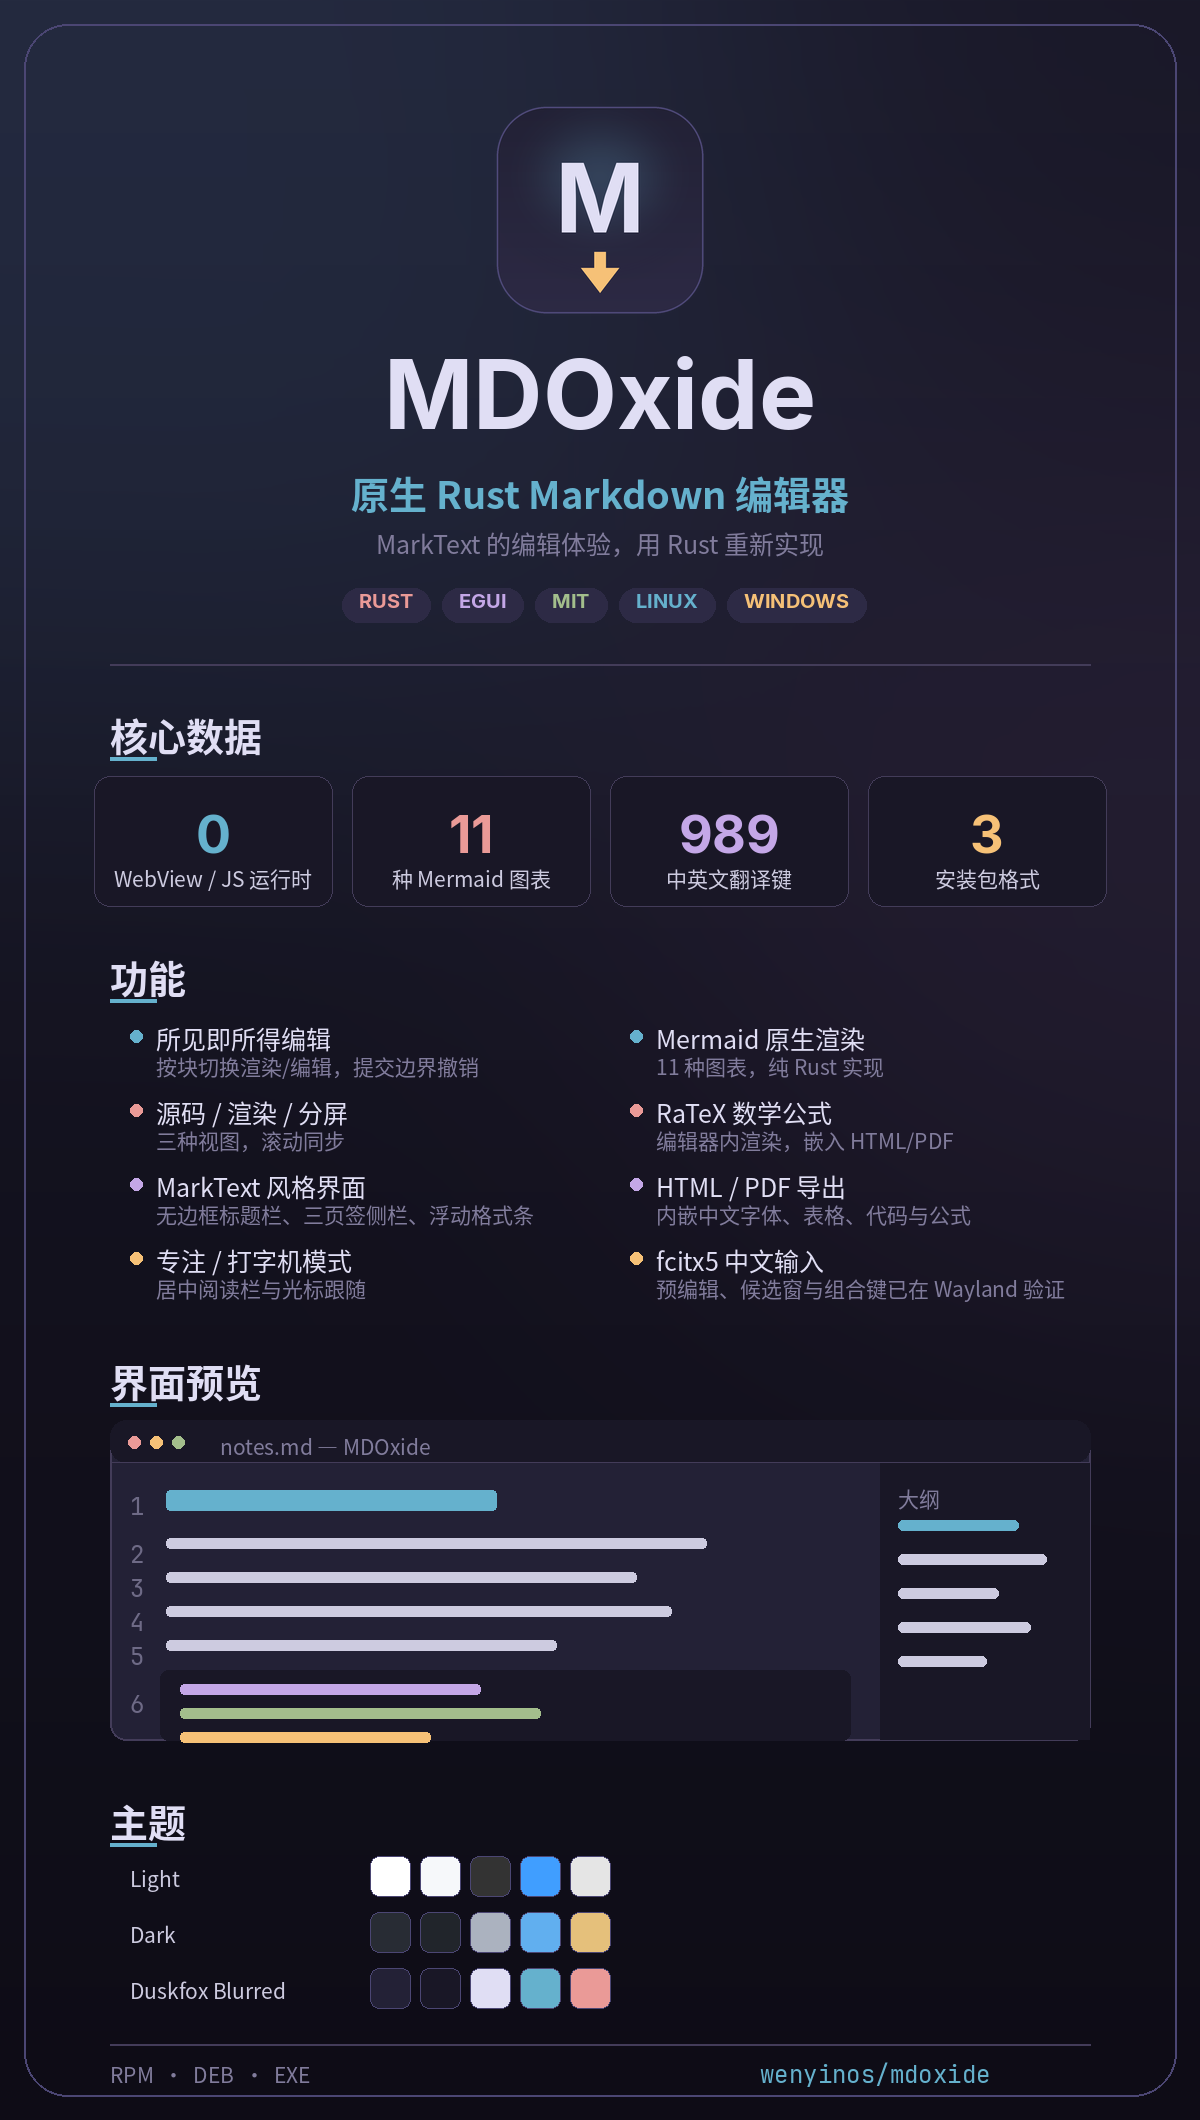
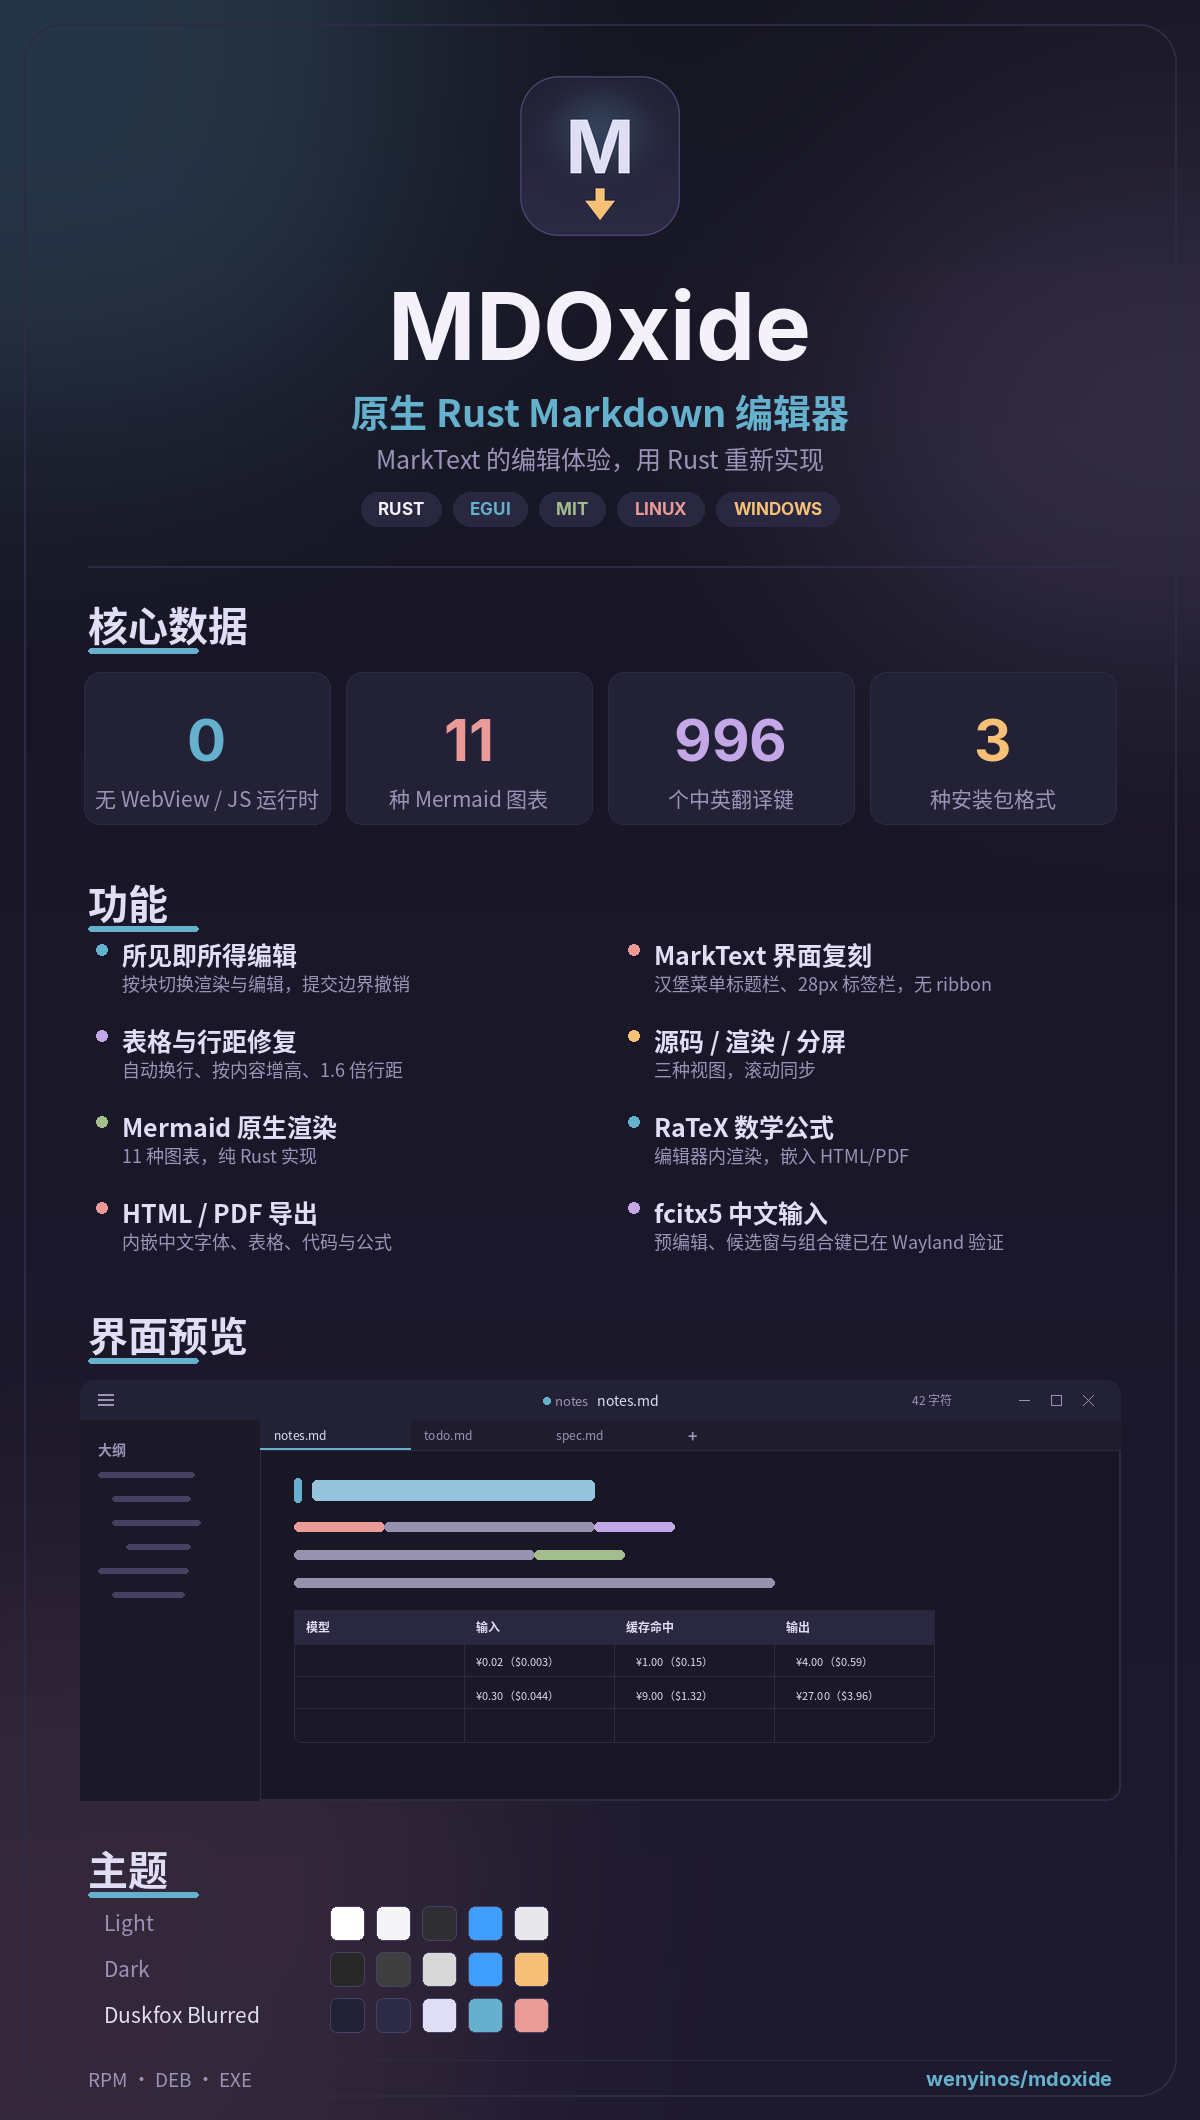
release: v0.3.0

diff --git a/site/index.html b/site/index.html
@@ -35,7 +35,11 @@
         </article>
         <article class="card">
           <h3>MarkText 风格界面</h3>
-          <p>无边框标题栏、居中标签页、三页签侧边栏、选区浮动格式条、专注与打字机模式。</p>
+          <p>32px 无边框标题栏、汉堡应用菜单、居中路径与未保存点、28px 标签栏与主题色下划线。没有 ribbon，也没有底部状态栏。</p>
+        </article>
+        <article class="card">
+          <h3>表格与排版</h3>
+          <p>单元格按内容自动换行并增高，长价格与 URL 不再被裁；正文 1.6 倍行距，中文统计显示字符数。</p>
         </article>
         <article class="card">
           <h3>图表与公式</h3>

diff --git a/docs/release-notes/v0.3.0.md b/docs/release-notes/v0.3.0.md
@@ -1,0 +1,41 @@
+# MDOxide v0.3.0
+
+原生 Rust 写成的所见即所得 Markdown 编辑器。无 WebView、无 Electron、无 JavaScript 运行时。
+
+## 下载 / Downloads
+
+未签名构建，Windows 首次运行可能被 SmartScreen 拦截；请用 `checksums.txt` 核对 SHA256。
+
+Unsigned builds — SmartScreen may block the first launch. Verify with `checksums.txt`.
+
+| 平台 / Platform | 文件 / File | 安装 / Install |
+|---|---|---|
+| Fedora / RHEL / openSUSE | `mdoxide-editor-0.3.0-1.x86_64.rpm` | `sudo dnf install ./<file>.rpm` |
+| Debian / Ubuntu | `mdoxide-editor_0.3.0-1_amd64.deb` | `sudo apt install ./<file>.deb` |
+| Windows x64 | `MDOxide-0.3.0-setup.exe` | 运行安装包；SmartScreen 选「更多信息 → 仍要运行」 |
+
+校验 / Verify：
+
+```bash
+sha256sum -c checksums.txt
+```
+
+## 本版亮点 / Highlights
+
+- **界面按 MarkText 复刻**：32px 无边框标题栏，左侧汉堡应用菜单（文件 / 编辑 / 格式 / 视图 / 工具 / 帮助），中间显示目录、文件名与未保存圆点，右侧显示文档统计和窗口按钮
+- **移除 Ferrite 遗留元素**：ribbon 工具栏、底部状态栏、右侧侧栏开关条全部移除；快捷键、浮动格式条与命令面板仍然可用，通知改为底部居中浮动提示
+- **MarkText 标签栏**：28px 高、活动标签带 2px 主题色下划线；未保存圆点与悬停关闭按钮共用一个位置，长标题自动省略
+- **表格不再裁剪文字**：列宽与行高的测量、绘制、点击定位统一使用同一套富文本布局；价格、URL 等不可断词允许任意断行；列宽总和超限时整体等比缩放
+- **更舒适的行距**：正文 1.5 → 1.6 倍（15px 字号对应 24px 行高），表格单元格内边距同步加大，行高按实际富文本高度计算
+- **中文统计更准确**：标题栏对 CJK 文档显示字符数，英文文档显示词数
+- **本地化更新**：中英文翻译键由 989 增至 996，覆盖新增菜单与视图项
+
+## 已知限制 / Known limitations
+
+- PDF v1：Mermaid 输出为代码块、图片为占位符、无 bidi 重排
+- 仅支持 Linux 与 Windows，不提供 macOS 构建
+- 背景透明效果依赖桌面合成器；不开窗口模糊时表现为半透明
+
+## 项目 / Project
+
+`wenyinos/mdoxide`

diff --git a/README.md b/README.md
@@ -10,20 +10,21 @@ The name: **Oxide** (Rust's oxidized-iron identity) + **MD** (Markdown).
 
 ## Status
 
-**v0.2.0 released.** All six milestones are complete: baseline fork and audit, module reduction, MarkText visual identity, interaction parity (including a real fcitx5 IME walkthrough), export quality, and packaging. Release artifacts (RPM, DEB, Windows installer) are built by GitHub Actions.
+**v0.3.0 released.** All six milestones are complete: baseline fork and audit, module reduction, MarkText visual identity, interaction parity (including a real fcitx5 IME walkthrough), export quality, and packaging. Release artifacts (RPM, DEB, Windows installer) are built by GitHub Actions.
 
 ## What works today
 
 - WYSIWYG markdown editing (per-block rendered/editing switch, commit-boundary undo)
 - Raw / Rendered / Split view modes
-- MarkText-style UI: frameless title bar, centred tab strip, three-tab sidebar, selection format toolbar, focus and typewriter modes
+- MarkText-style chrome: 32px frameless title bar with hamburger application menu, centred document path, 28px tab strip with accent underline, selection format toolbar, focus and typewriter modes
+- Typography tuned to MarkText: 15px body text at 1.6× line height; table cells wrap and grow to fit their content
 - Bundled Source Han Sans for reliable CJK rendering; fcitx5 IME verified on Wayland (preedit, candidate window, backspace, commit, Esc)
 - CommonMark + GFM via `comrak`; syntax highlighting via `syntect`
 - Native Mermaid rendering (11 diagram types) and Mermaid SVG in HTML export
 - RaTeX math rendering in the editor and in HTML/PDF exports
 - HTML and PDF export with embedded CJK fonts, tables, code blocks, links, and formula images
 - File tree, workspace mode, find & replace (regex)
-- 10 UI languages
+- 10 UI languages (996 aligned translation keys)
 
 ## Known limitations
 
@@ -36,7 +37,7 @@ Requirements: Rust 1.92 (pinned in `rust-toolchain.toml`), plus the usual Linux 
 
 ```bash
 cargo run --release        # run
-cargo test --release       # 1601 tests, 0 failures
+cargo test --release       # full test suite
 cargo build --release      # binary at target/release/mdoxide
 ```
 

diff --git a/README.zh-CN.md b/README.zh-CN.md
@@ -10,20 +10,21 @@ MDOxide 是对 [MarkText](https://github.com/marktext/marktext) 编辑体验的 
 
 ## 当前状态
 
-**v0.2.0 已发布。** 六个里程碑全部完成：基座 Fork 与代码审查、模块裁减、MarkText 外观重塑、交互对齐（含 fcitx5 IME 真机走查）、导出质量与打包。发布产物（RPM、DEB、Windows 安装包）由 GitHub Actions 构建。
+**v0.3.0 已发布。** 六个里程碑全部完成：基座 Fork 与代码审查、模块裁减、MarkText 外观重塑、交互对齐（含 fcitx5 IME 真机走查）、导出质量与打包。发布产物（RPM、DEB、Windows 安装包）由 GitHub Actions 构建。
 
 ## 已具备的能力
 
 - 所见即所得 Markdown 编辑：按块切换渲染/编辑态，提交边界撤销
 - 源码 / 渲染 / 分屏三种视图
-- MarkText 风格界面：无边框标题栏、居中标签页、三页签侧边栏、选区浮动格式条、专注与打字机模式
+- MarkText 风格界面：32px 无边框标题栏（汉堡应用菜单、居中路径与未保存点）、28px 标签栏与主题色下划线、选区浮动格式条、专注与打字机模式
+- 排版对齐 MarkText：正文 15px、1.6 倍行距；表格单元格自动换行并按内容增高
 - 内置思源黑体，中文渲染不依赖系统字体；fcitx5 IME 已在 Wayland 真机验证（预编辑、候选窗、组合中 Backspace、提交、Esc）
 - CommonMark + GFM（`comrak`），代码高亮（`syntect`）
 - 原生 Mermaid 渲染（11 种图表），HTML 导出内嵌 Mermaid SVG
 - RaTeX 数学公式：编辑器内渲染，并嵌入 HTML/PDF 导出
 - HTML 与 PDF 导出：内嵌中文字体，支持表格、代码块、链接与公式图片
 - 文件树、工作区模式、正则查找替换
-- 10 种界面语言
+- 10 种界面语言（996 个中英对齐翻译键）
 
 ## 已知限制
 
@@ -36,7 +37,7 @@ MDOxide 是对 [MarkText](https://github.com/marktext/marktext) 编辑体验的 
 
 ```bash
 cargo run --release        # 运行
-cargo test --release       # 1601 个测试，0 失败
+cargo test --release       # 完整测试套件
 cargo build --release      # 产物：target/release/mdoxide
 ```
 

diff --git a/CHANGELOG.md b/CHANGELOG.md
@@ -2,6 +2,24 @@
 
 格式参考 [Keep a Changelog](https://keepachangelog.com/zh-CN/1.1.0/)，版本号遵循语义化版本。
 
+## [0.3.0] - 2026-10-24
+
+### 变更
+
+- 界面按 MarkText 复刻：32px 无边框标题栏 + 汉堡应用菜单（文件 / 编辑 / 格式 / 视图 / 工具 / 帮助），居中显示目录、文件名与未保存圆点，右侧显示文档统计与窗口按钮
+- 移除 Ferrite 遗留元素：ribbon 工具栏、底部状态栏、右侧侧栏开关条；通知改为底部居中浮动 toast
+- 标签栏改为 MarkText 样式：28px 高、活动标签主题色下划线、未保存圆点与悬停关闭按钮共用位置、长标题省略
+- 正文行距 1.5 → 1.6（15px 字号对应 24px 行高），块高度估算同步
+- 中文文档在标题栏显示字符数，英文文档显示词数
+- 翻译键由 989 增至 996，新增菜单与视图项本地化
+
+### 修复
+
+- 表格文字被裁剪：列宽 / 行高测量与绘制统一使用同一富文本布局；价格、URL 等不可断词允许任意断行；列宽总和超限时等比缩放
+- 表格行高不足：按 1.6 倍行距的富文本实际高度计算，并增加 2px 余量
+- 表格单元格内边距增大（横向 10px、纵向 8px）
+- CI 测试：行高相关断言改用 `FIXED_LINE_HEIGHT`；主题循环测试覆盖 Duskfox Blurred
+
 ## [0.2.0] - 2026-10-24
 
 ### 新增

diff --git a/ROADMAP.md b/ROADMAP.md
@@ -36,6 +36,7 @@
   - ✅ v0.1.0 已发布（Linux RPM/DEB）
   - ✅ v0.1.2：汉化补全、启动跟随系统语言、默认字号与字体可读性、Windows NSIS 修复；产物由 release workflow 直接发布
   - ✅ v0.2.0：Duskfox Blurred 主题与透明背景、全新图标、GitPages 主页、竖版海报、发布页模板与 checksums
+  - ✅ v0.3.0：MarkText 界面复刻（汉堡菜单标题栏、移除 ribbon/状态栏）、表格换行与行高修复、1.6 倍行距
 
 ## 明确不做
 
